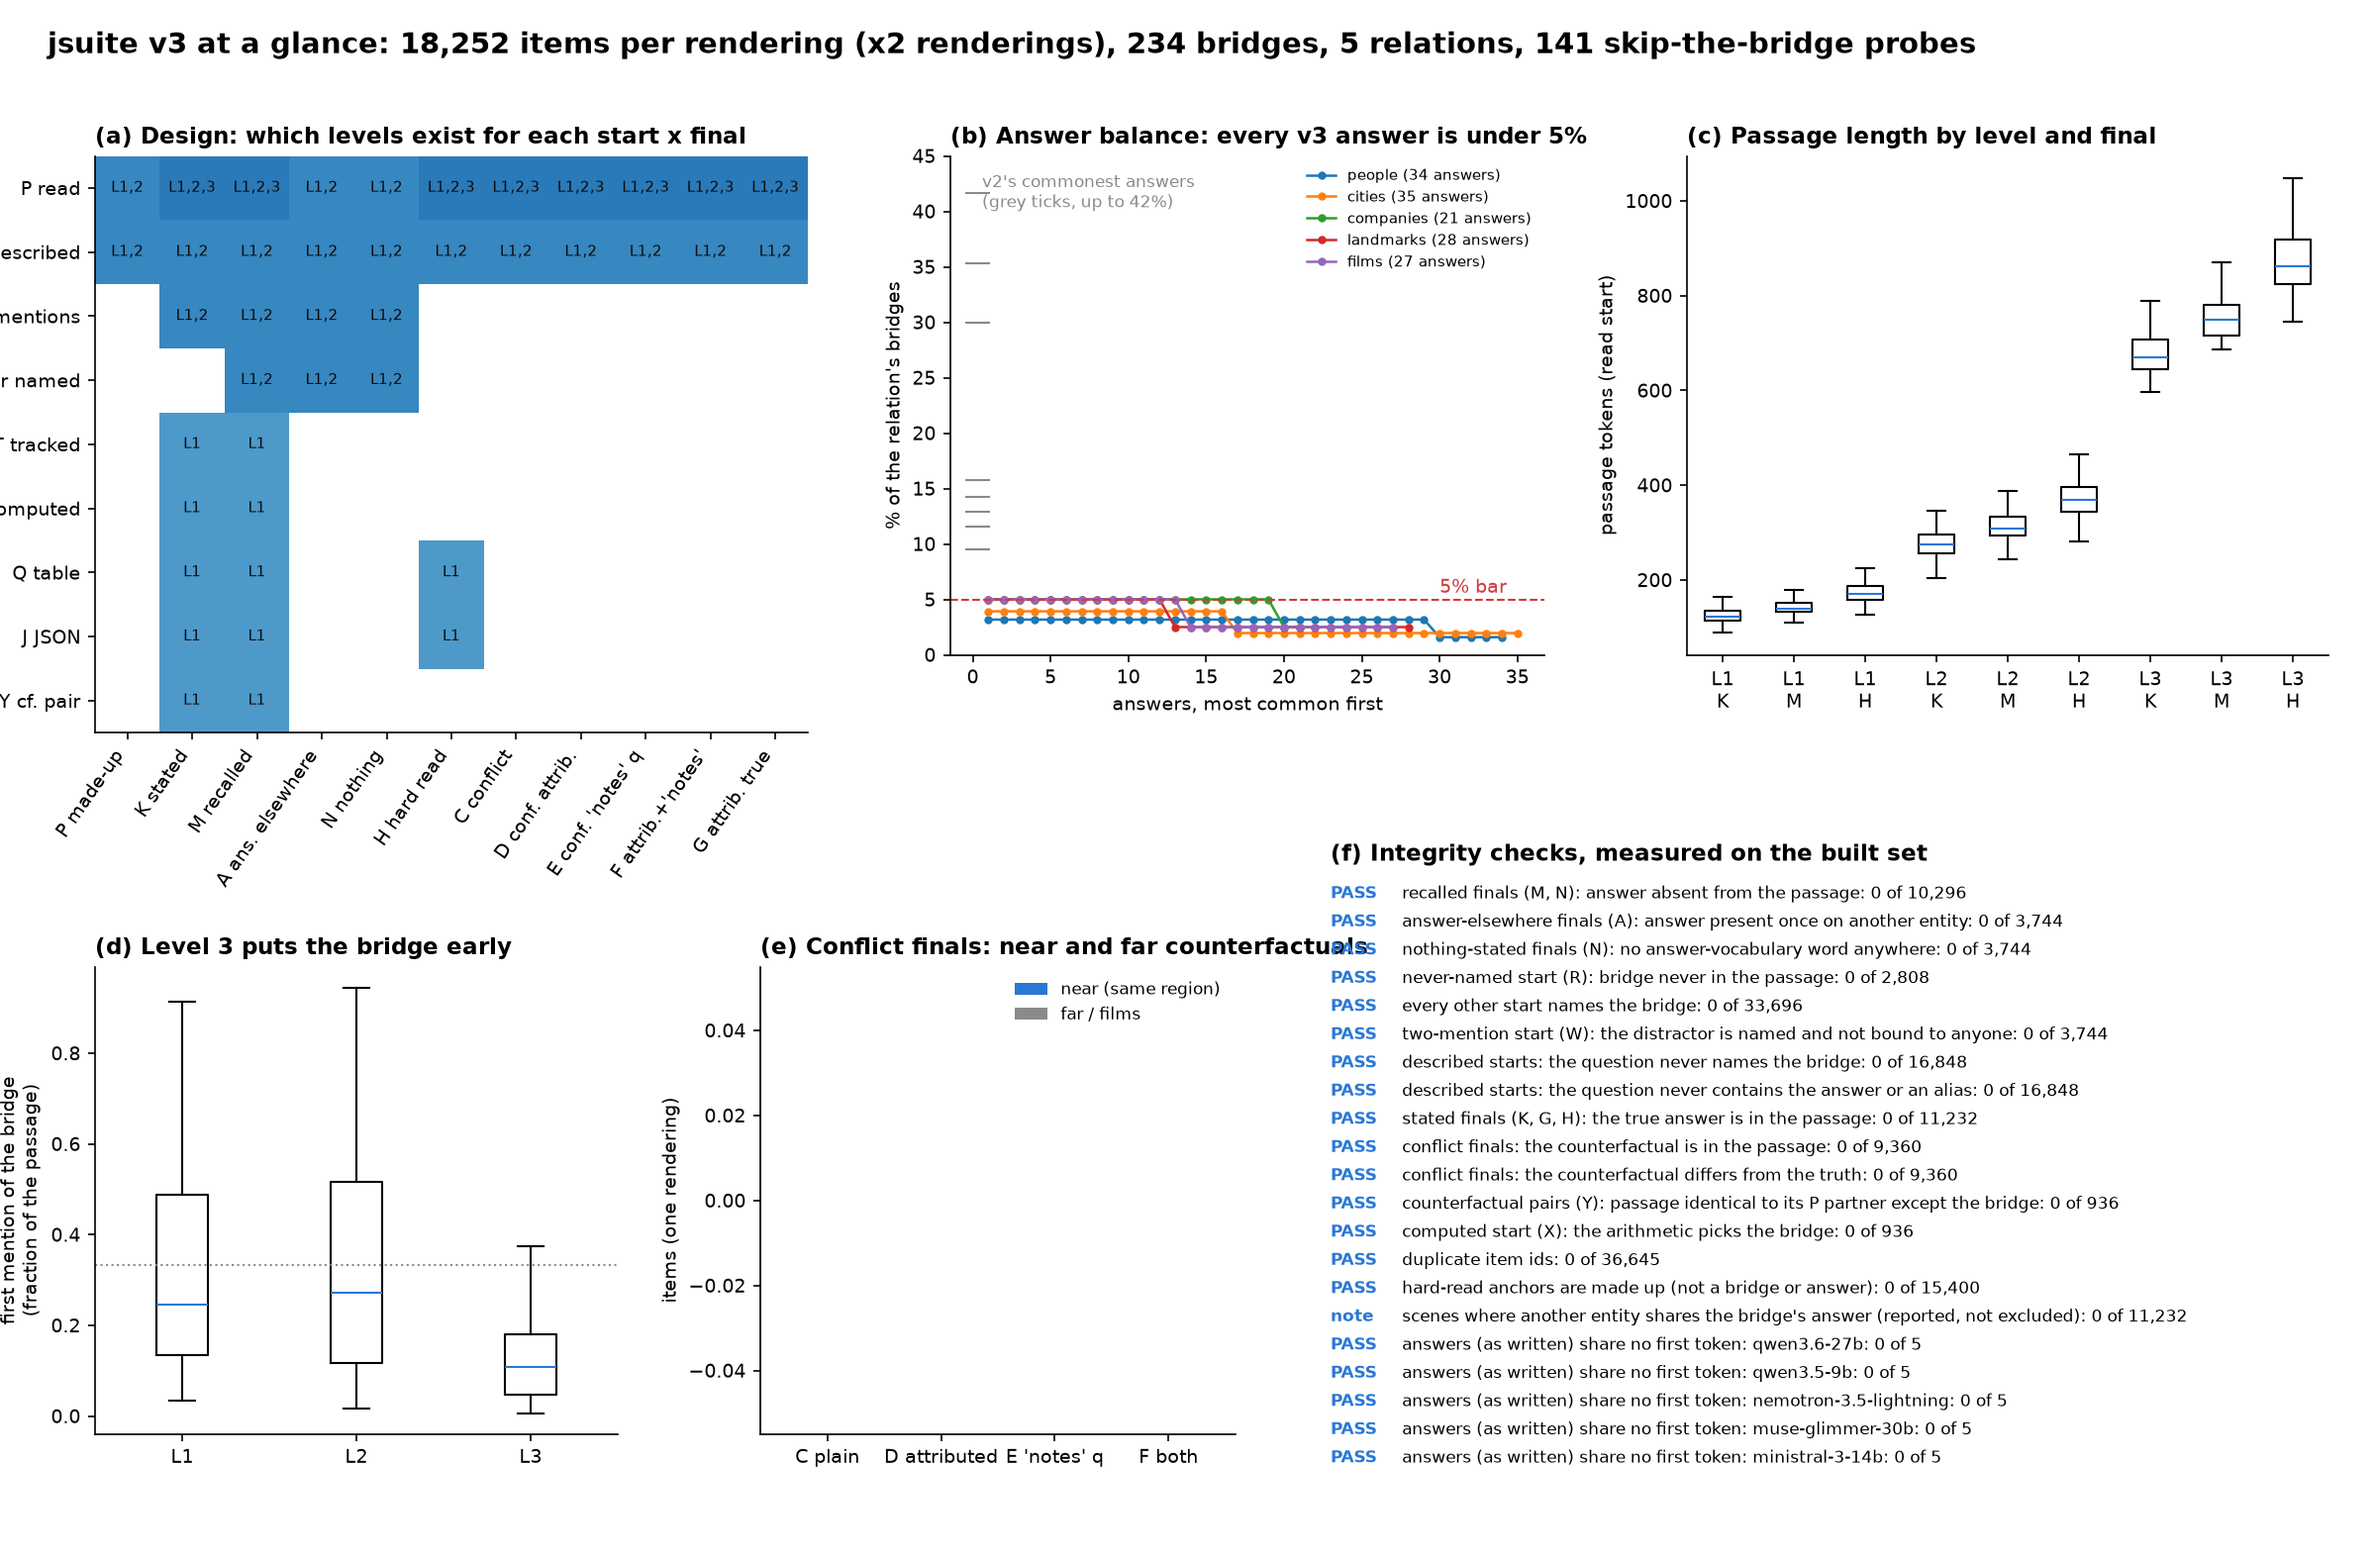
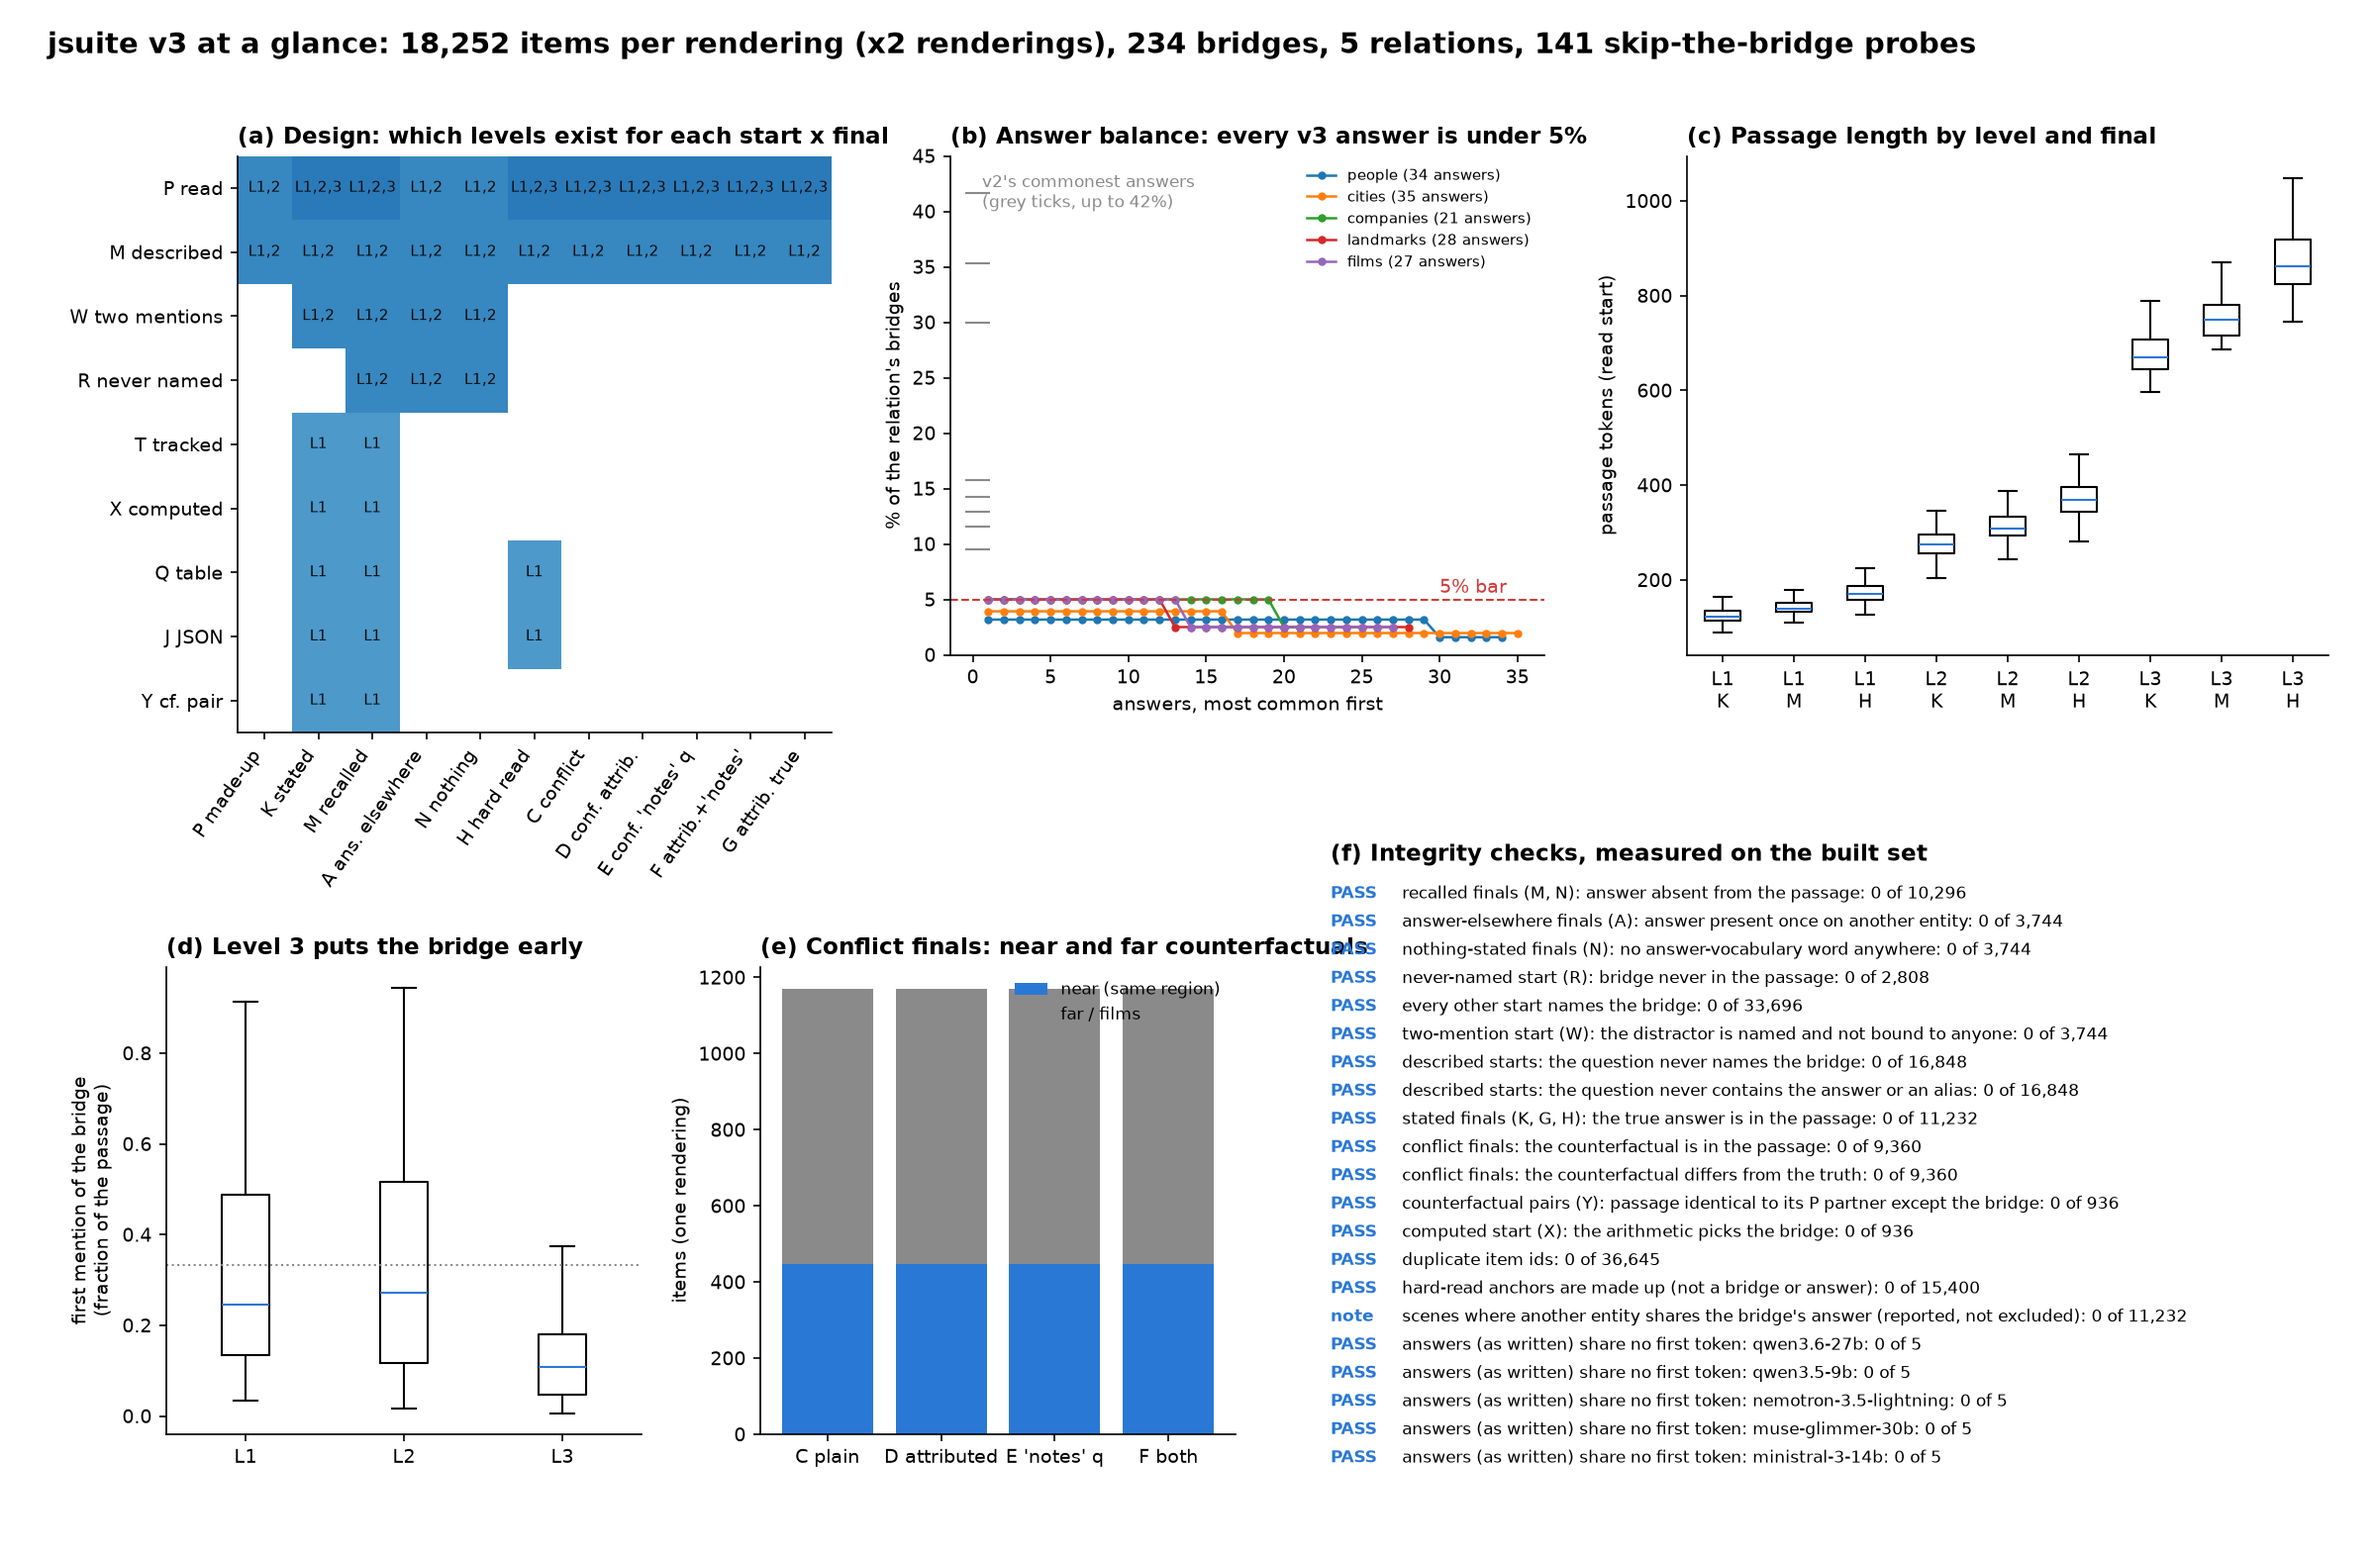
audit_v3: read both renderings after the split; fix the conflict panel and label margins

diff --git a/scripts/audit_v3.py b/scripts/audit_v3.py
@@ -29,6 +29,9 @@ def has(text: str, w: str) -> bool:
 
 def main(name: str) -> None:
     rows = [json.loads(line) for line in (ROOT / "data/tasks_v2" / f"{name}_test_chat" / "items.jsonl").open()]
+    r1 = ROOT / "data/tasks_v2" / f"{name}r1_test_chat" / "items.jsonl"  # the second rendering, split off after the build
+    if r1.exists():
+        rows += [json.loads(line) for line in r1.open()]
     facts = [r for r in rows if r.get("module") == "facts"]
     probes = [r for r in rows if r.get("module") == "probes"]
     bridges = json.loads((ROOT / "data/v3_bridges.json").read_text())
@@ -162,7 +165,7 @@ def main(name: str) -> None:
           "| check | violations | of | expected | pass |", "|---|---|---|---|---|"]
     md += [f"| {c['check']} | {c['violations']} | {c['of']} | {c['expect']} | {'yes' if c['pass'] else 'NO'} |" for c in checks]
     (out_dir / "audit.md").write_text("\n".join(md) + "\n")
-    figure(out_dir / "overview.png", words, shares, v2_shares, lengths, keypos, conflict_mix, checks, summary)
+    figure(out_dir / "overview.png", words, shares, v2_shares, lengths, keypos, summary["conflict_mix"], checks, summary)
     print("\n".join(md))
 
 
@@ -179,7 +182,7 @@ def figure(path, words, shares, v2_shares, lengths, keypos, conflict_mix, checks
                  f"5 relations, {s['n_probes']} skip-the-bridge probes", x=0.02, ha="left", fontsize=14, fontweight="bold")
 
     # (a) the design matrix
-    ax = fig.add_axes((0.04, 0.53, 0.30, 0.37))
+    ax = fig.add_axes((0.10, 0.53, 0.25, 0.37))
     import numpy as np
 
     grid = np.zeros((len(STARTS), len(FINALS)))
@@ -224,7 +227,7 @@ def figure(path, words, shares, v2_shares, lengths, keypos, conflict_mix, checks
     ax.set_title("(c) Passage length by level and final", loc="left", fontweight="bold")
 
     # (d) where the bridge first appears
-    ax = fig.add_axes((0.04, 0.08, 0.22, 0.30))
+    ax = fig.add_axes((0.07, 0.08, 0.20, 0.30))
     ax.boxplot([keypos[lv] for lv in sorted(keypos)], tick_labels=[f"L{lv}" for lv in sorted(keypos)], showfliers=False,
                medianprops={"color": blue})
     ax.axhline(1 / 3, color=grey, ls=":", lw=1)
